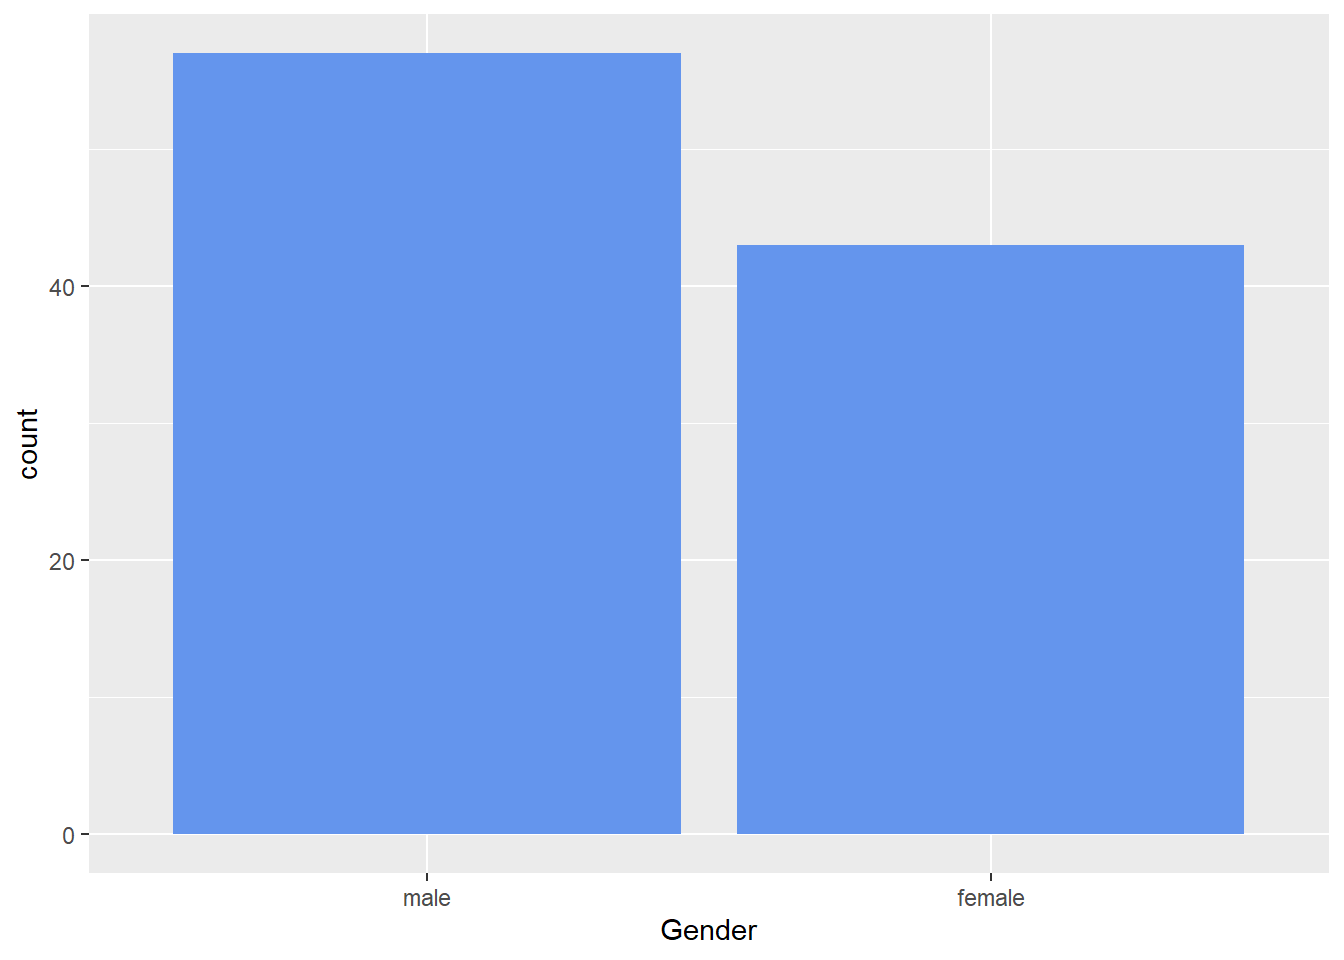
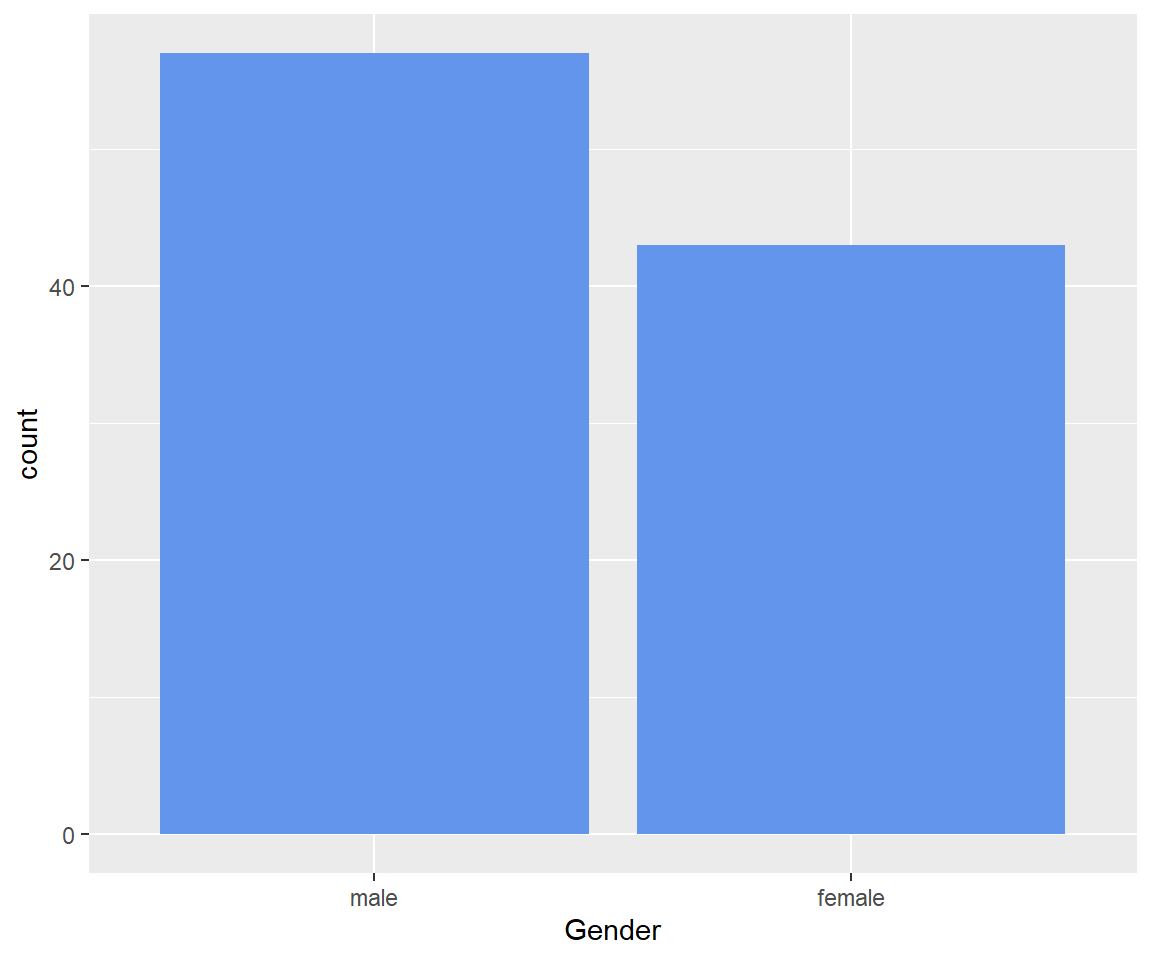
blog ups

diff --git a/Blog.html b/Blog.html
@@ -16,7 +16,7 @@
 
 <script src="site_libs/jquery-1.11.3/jquery.min.js"></script>
 <meta name="viewport" content="width=device-width, initial-scale=1" />
-<link href="site_libs/bootstrap-3.3.5/css/sandstone.min.css" rel="stylesheet" />
+<link href="site_libs/bootstrap-3.3.5/css/journal.min.css" rel="stylesheet" />
 <script src="site_libs/bootstrap-3.3.5/js/bootstrap.min.js"></script>
 <script src="site_libs/bootstrap-3.3.5/shim/html5shiv.min.js"></script>
 <script src="site_libs/bootstrap-3.3.5/shim/respond.min.js"></script>
@@ -600,11 +600,11 @@ div.tocify {
 <div class="sourceCode" id="cb8"><pre class="sourceCode r"><code class="sourceCode r"><span id="cb8-1"><a href="#cb8-1"></a>dem.data <span class="op">%&gt;%</span></span>
 <span id="cb8-2"><a href="#cb8-2"></a><span class="st">  </span><span class="kw">ggplot</span>(<span class="kw">aes</span>(gender)) <span class="op">+</span></span>
 <span id="cb8-3"><a href="#cb8-3"></a><span class="st">  </span><span class="kw">geom_bar</span>(<span class="dt">fill =</span> <span class="st">&quot;navyblue&quot;</span>)</span></code></pre></div>
-<p><img src="Blog_files/figure-html/unnamed-chunk-5-1.png" width="672" /></p>
+<p><img src="Blog_files/figure-html/unnamed-chunk-5-1.png" width="576" /></p>
 <div class="sourceCode" id="cb9"><pre class="sourceCode r"><code class="sourceCode r"><span id="cb9-1"><a href="#cb9-1"></a>dem.data <span class="op">%&gt;%</span></span>
 <span id="cb9-2"><a href="#cb9-2"></a><span class="st">  </span><span class="kw">ggplot</span>(<span class="kw">aes</span>(marital.status)) <span class="op">+</span></span>
 <span id="cb9-3"><a href="#cb9-3"></a><span class="st">  </span><span class="kw">geom_bar</span>(<span class="dt">fill =</span> <span class="st">&quot;lawngreen&quot;</span>)</span></code></pre></div>
-<p><img src="Blog_files/figure-html/unnamed-chunk-5-2.png" width="672" /></p>
+<p><img src="Blog_files/figure-html/unnamed-chunk-5-2.png" width="576" /></p>
 <p>As a data analyst you might have prior knowledge of the variable meanings as indicated in the metadata or codebook. However, a reader or the audience might not understand the two plot because they don’t know what 0 and 1 mean in gender and 1, 2, and 3 in marital status, hence the need to recode variable.</p>
 </div>
 <div id="recode-gender-and-marital-status-recode-number-to-factor" class="section level2">
@@ -623,12 +623,12 @@ div.tocify {
 <span id="cb10-12"><a href="#cb10-12"></a><span class="st">  </span><span class="kw">ggplot</span>(<span class="kw">aes</span>(gender.cat)) <span class="op">+</span></span>
 <span id="cb10-13"><a href="#cb10-13"></a><span class="st">  </span><span class="kw">geom_bar</span>(<span class="dt">fill =</span> <span class="st">&quot;cornflowerblue&quot;</span>) <span class="op">+</span></span>
 <span id="cb10-14"><a href="#cb10-14"></a><span class="st">  </span><span class="kw">xlab</span>(<span class="st">&quot;Gender&quot;</span>)</span></code></pre></div>
-<p><img src="Blog_files/figure-html/unnamed-chunk-6-1.png" width="672" /></p>
+<p><img src="Blog_files/figure-html/unnamed-chunk-6-1.png" width="576" /></p>
 <div class="sourceCode" id="cb11"><pre class="sourceCode r"><code class="sourceCode r"><span id="cb11-1"><a href="#cb11-1"></a>dem.data <span class="op">%&gt;%</span></span>
 <span id="cb11-2"><a href="#cb11-2"></a><span class="st">  </span><span class="kw">ggplot</span>(<span class="kw">aes</span>(marital.status.cat)) <span class="op">+</span></span>
 <span id="cb11-3"><a href="#cb11-3"></a><span class="st">  </span><span class="kw">geom_bar</span>(<span class="dt">fill =</span> <span class="st">&quot;brown&quot;</span>) <span class="op">+</span></span>
 <span id="cb11-4"><a href="#cb11-4"></a><span class="st">  </span><span class="kw">xlab</span>(<span class="st">&quot;Marital Status&quot;</span>)</span></code></pre></div>
-<p><img src="Blog_files/figure-html/unnamed-chunk-6-2.png" width="672" /></p>
+<p><img src="Blog_files/figure-html/unnamed-chunk-6-2.png" width="576" /></p>
 <p>The audience can easily understand the two graphs as the labels are defined.</p>
 </div>
 <div id="recode-recode-gender-and-marital-status-factor-to-number" class="section level2">
@@ -647,12 +647,12 @@ div.tocify {
 <span id="cb12-12"><a href="#cb12-12"></a><span class="st">  </span><span class="kw">ggplot</span>(<span class="kw">aes</span>(gender.num)) <span class="op">+</span></span>
 <span id="cb12-13"><a href="#cb12-13"></a><span class="st">  </span><span class="kw">geom_bar</span>(<span class="dt">fill =</span> <span class="st">&quot;purple4&quot;</span>) <span class="op">+</span></span>
 <span id="cb12-14"><a href="#cb12-14"></a><span class="st">  </span><span class="kw">xlab</span>(<span class="st">&quot;Gender&quot;</span>)</span></code></pre></div>
-<p><img src="Blog_files/figure-html/unnamed-chunk-7-1.png" width="672" /></p>
+<p><img src="Blog_files/figure-html/unnamed-chunk-7-1.png" width="576" /></p>
 <div class="sourceCode" id="cb13"><pre class="sourceCode r"><code class="sourceCode r"><span id="cb13-1"><a href="#cb13-1"></a>dem.data <span class="op">%&gt;%</span></span>
 <span id="cb13-2"><a href="#cb13-2"></a><span class="st">  </span><span class="kw">ggplot</span>(<span class="kw">aes</span>(marital.status.num)) <span class="op">+</span></span>
 <span id="cb13-3"><a href="#cb13-3"></a><span class="st">  </span><span class="kw">geom_bar</span>(<span class="dt">fill =</span> <span class="st">&quot;goldenrod4&quot;</span>) <span class="op">+</span></span>
 <span id="cb13-4"><a href="#cb13-4"></a><span class="st">  </span><span class="kw">xlab</span>(<span class="st">&quot;Marital Status&quot;</span>)</span></code></pre></div>
-<p><img src="Blog_files/figure-html/unnamed-chunk-7-2.png" width="672" /></p>
+<p><img src="Blog_files/figure-html/unnamed-chunk-7-2.png" width="576" /></p>
 <p>Happy Coding !!!</p>
 </div>
 </div>
